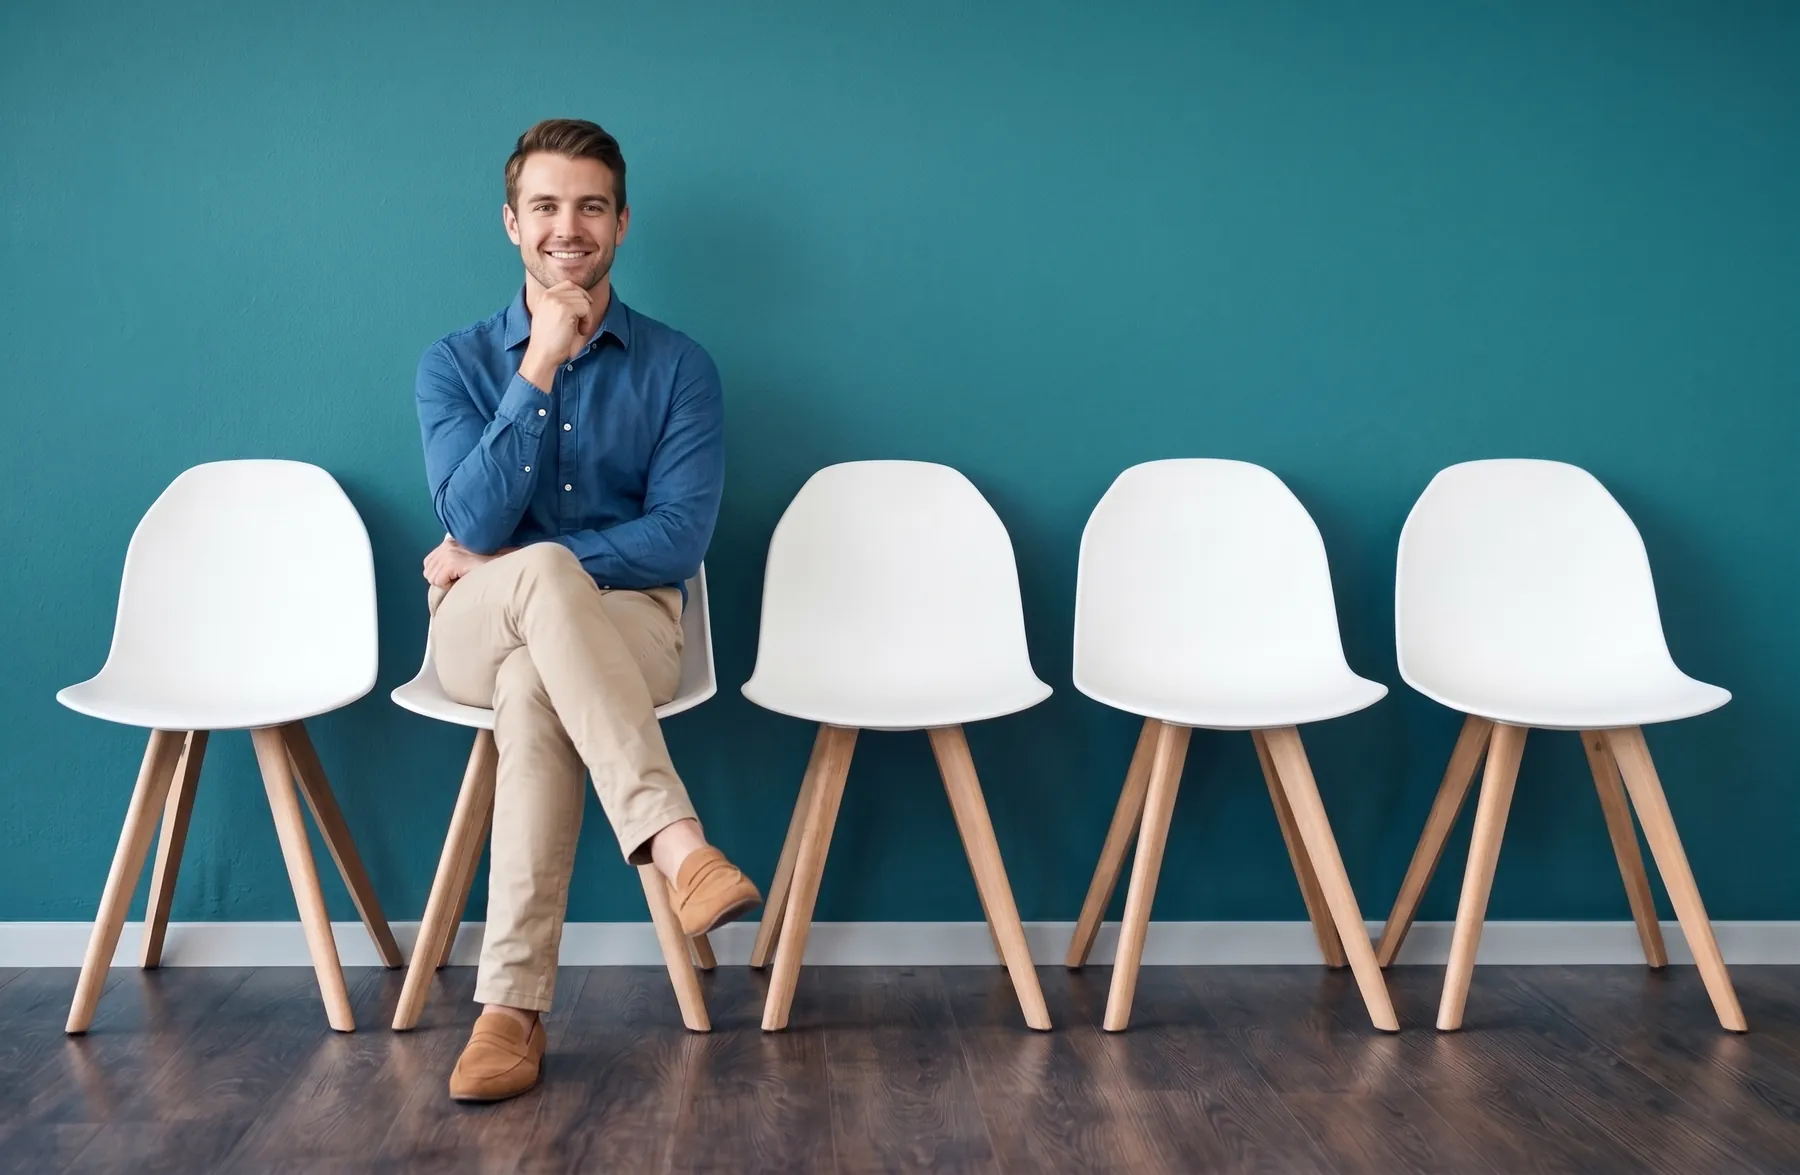
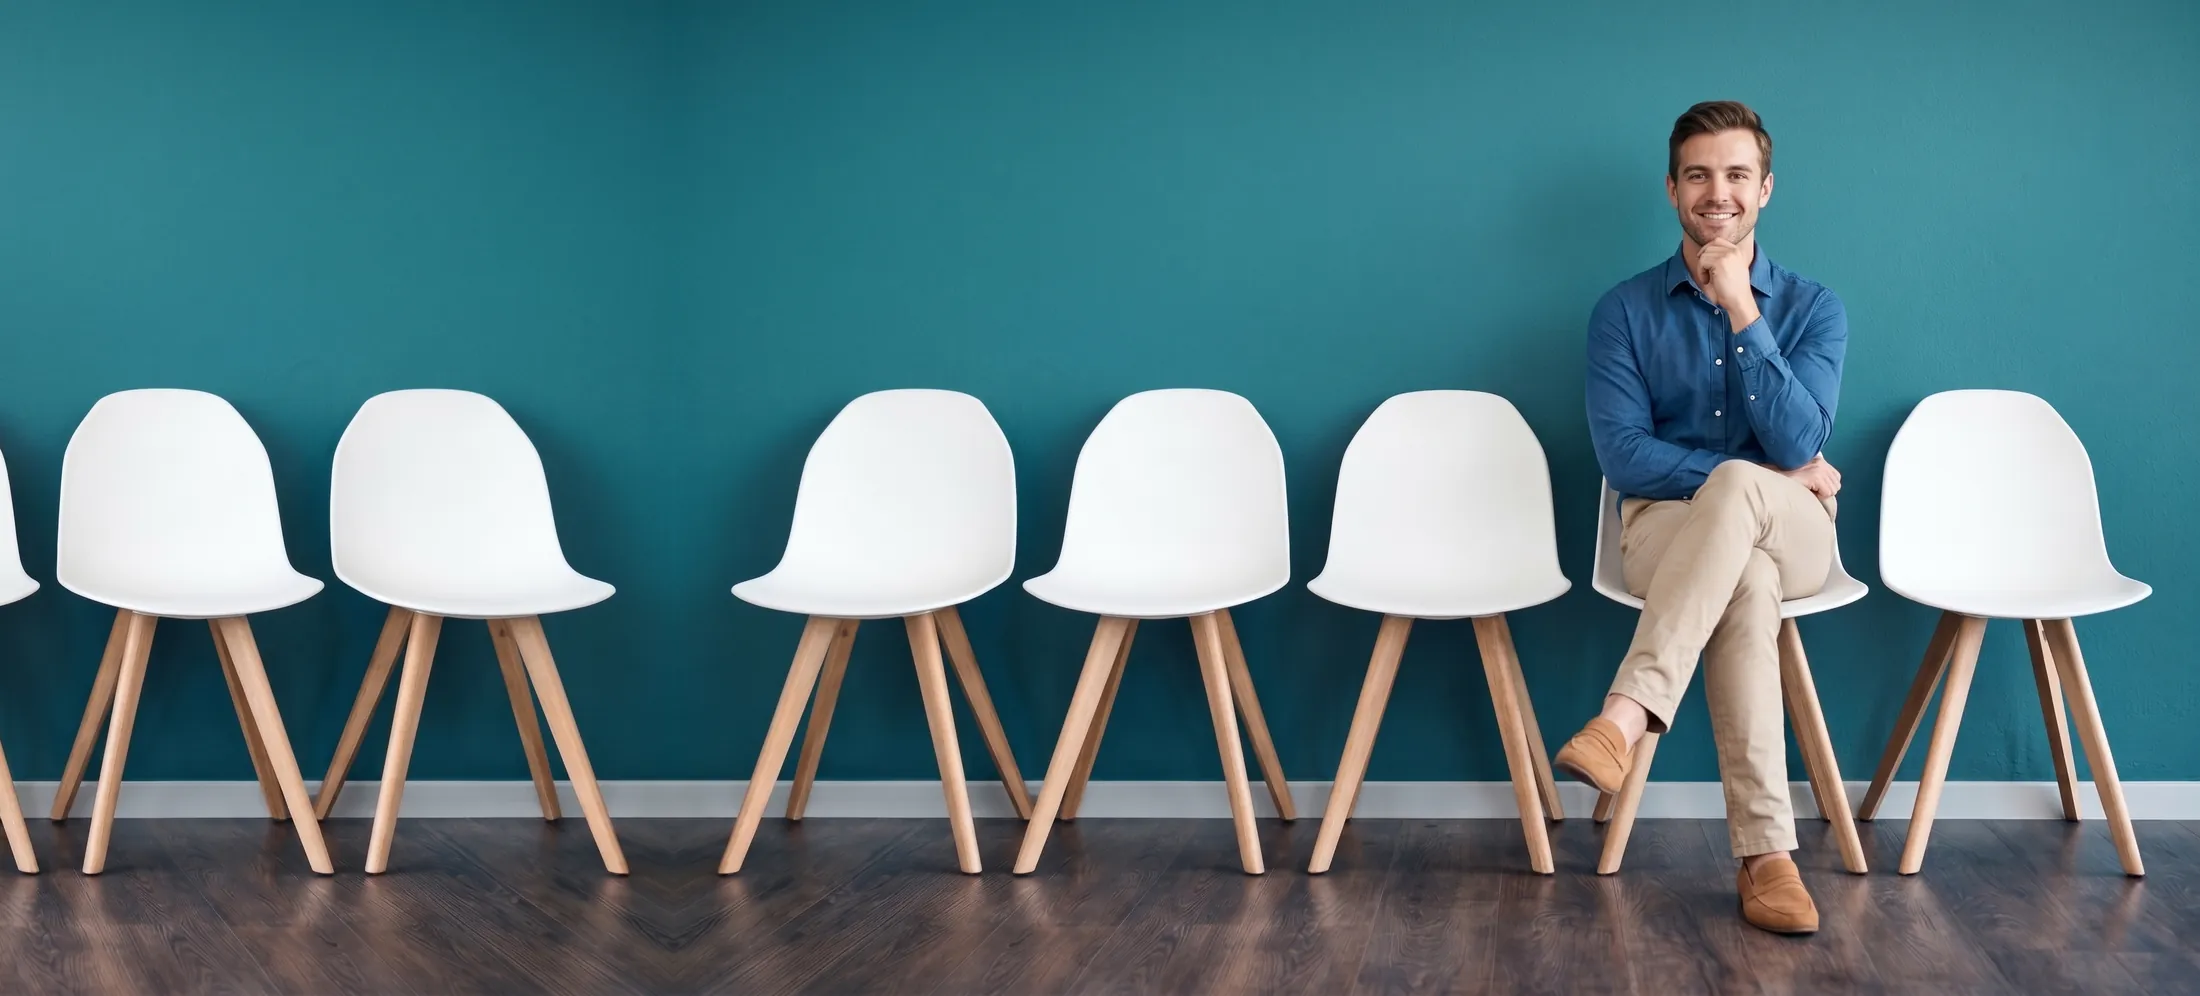
Hero riquadrati, Consulente al posto di Concierge, schede valore senza foto
- le due fotografie degli hero hanno la tela allargata con una copia
  specchiata del bordo: e' l'unico modo di spostare il soggetto senza
  tagliarlo, perche' con object-cover ogni spostamento costa altezza
- home: la ragazza passa dal 53% al 67% della larghezza, testo a
  sinistra. Contrasto del bianco ricontrollato, 5,25:1 nel caso peggiore
- come funziona: fotografia specchiata, uomo a destra e scatola del testo
  a sinistra, a meta' dello spazio libero a ogni larghezza
- «Concierge» diventa «Consulente» in italiano e «Advisor» in inglese
- la sezione «Un benefit che viene usato davvero» perde le fotografie:
  nelle strisce da 144px uscivano schiacciate. Restano tre schede con il
  numero grande

diff --git a/src/pages/NavigatoreSanitario.tsx b/src/pages/NavigatoreSanitario.tsx
@@ -7,39 +7,9 @@ import SectionHeading from "@/components/home/SectionHeading";
 import ClientsSection from "@/components/home/ClientsSection";
 import PlatformDetailSection from "@/components/navigatore/PlatformDetailSection";
 import heroImage from "@/assets/hero-come-funziona.webp";
-import valueImage from "@/assets/valore-welfare.webp";
-import timeImage from "@/assets/tempo-liberato.webp";
-import doctorsImage from "@/assets/problem-screening.jpg";
-import { cn } from "@/lib/utils";
 import { useTranslation } from "@/i18n/useTranslation";
 
 const VALUE_KEYS = ["item1", "item2", "item3"];
-
-/**
- * Le tre voci: la seconda occupa la colonna alta, come nel riferimento.
- *
- * Le fotografie sono scelte sul senso della frase, non a caso: la ragazza con
- * il raccoglitore per il valore percepito dal team, la ragazza che si stira al
- * sole per il tempo che il dipendente si riprende, i medici per la cultura
- * della prevenzione. Le prime due sono le foto nuove del cliente, la terza e'
- * una che il progetto aveva gia'.
- *
- * ⚠ `problem-fondi-sanitari.jpg` (la pila di moduli) e' uscita di qui: stava
- * sulla scheda 02 e il cliente ci ha voluto la foto nuova.
- *
- * ⚠ `alt=""`: la frase della scheda dice gia' tutto, una descrizione della
- * foto aggiungerebbe rumore a chi legge con uno screen reader.
- */
-const VALUE_CARDS = [
-  // ⚠ `focus` e' il ritaglio, ed e' misurato scheda per scheda: le due
-  // fotografie nuove stanno in una striscia molto larga (640×144), dove un
-  // ritaglio centrato mostra solo la fascia centrale dell'originale.
-  // Sul ritratto in studio quella fascia e' il raccoglitore, non la faccia,
-  // che nell'originale sta fra l'8% e il 42% dell'altezza: da li' il 12%.
-  { key: "item1", image: valueImage, focus: "object-[50%_12%]" },
-  { key: "item3", image: doctorsImage, focus: "object-center" },
-  { key: "item2", image: timeImage, focus: "object-center" },
-];
 
 /**
  * «Come funziona», rifatta nel linguaggio della home: fotografia a tutto campo
@@ -55,8 +25,8 @@ const VALUE_CARDS = [
  * fotografia. La scatola risolve il contrasto (crema su petrolio, 6,25:1) e
  * lascia la foto visibile intorno.
  *
- * La scatola sta **a destra** da `md` in su: nella fotografia nuova il
- * soggetto e' a sinistra.
+ * La scatola sta **a sinistra** e la fotografia e' specchiata, cosi' il
+ * soggetto resta a destra.
  */
 const NavigatoreSanitario = () => {
   const { t } = useTranslation();
@@ -72,16 +42,17 @@ const NavigatoreSanitario = () => {
               src={heroImage}
               alt=""
               aria-hidden="true"
-              // ⚠ Il ritaglio e' misurato sulla fotografia nuova, che ha il
-              // soggetto fra il 22% e il 42% della larghezza e la testa fra il
-              // 10% e il 25% dell'altezza.
-              // `object-top`: da `md` la fascia visibile e' l'80% centrale e un
+              // ⚠ Il ritaglio e' misurato: nella fotografia allargata e
+              // **specchiata** l'uomo sta al 78% della larghezza e la sua testa
+              // fra il 6% e il 21% dell'altezza.
+              // `top`: la fascia visibile non prende tutta l'altezza e un
               // ritaglio centrato mangerebbe la testa. Ancorando in alto si
               // perde solo il pavimento.
-              // `object-[22%_top]` sotto `md`: li' la fascia visibile e' il 36%
-              // della larghezza e un ritaglio centrato mostrerebbe solo le
-              // sedie vuote.
-              className="h-full w-full object-cover object-[22%_top] md:object-top"
+              // `78%` sull'asse x a tutte le larghezze: cosi' l'uomo cade a
+              // meta' dello spazio libero fra la scatola del testo e il bordo
+              // destro. Con il ritaglio centrato, a 768 finirebbe fuori dallo
+              // schermo.
+              className="h-full w-full object-cover object-[78%_top]"
             />
             {/* Velo leggero: qui serve solo a portare la foto dentro la palette,
                 non a reggere il testo, che ha la sua scatola. */}
@@ -93,9 +64,10 @@ const NavigatoreSanitario = () => {
               soggetto, che nel ritaglio verticale sta fra 77 e 192 pixel.
               Con 208 di stacco la faccia resta sopra la scatola. */}
           <div className="container mx-auto px-4 pb-28 pt-52 sm:px-6 md:pt-40 lg:px-8 lg:pb-32 lg:pt-48">
-            {/* La scatola sta a destra: la fotografia ha il soggetto a
-                sinistra e coprirlo con il testo sarebbe stato uno spreco. */}
-            <Reveal threshold={0} duration={900} data-header-overlap className="max-w-xl md:ml-auto lg:max-w-[56%]">
+            {/* La scatola sta a sinistra e la fotografia e' specchiata, cosi'
+                l'uomo resta a destra: e' l'impaginazione del resto del sito,
+                testo a sinistra e immagine a destra. */}
+            <Reveal threshold={0} duration={900} data-header-overlap className="max-w-xl lg:max-w-[56%]">
               <div className="rounded-card bg-primary p-7 shadow-soft md:p-12">
                 <h1 className="font-display text-fluid-4xl font-normal tracking-tight text-accent">
                   {t("navigatore.hero.title")}
@@ -129,57 +101,27 @@ const NavigatoreSanitario = () => {
                 </p>
               </Reveal>
 
-              {/* Griglia asimmetrica: due schede in colonna a sinistra e una
-                  alta a destra. La terza cresce fino all'altezza delle altre
-                  due grazie a `lg:h-full` sulla cella. */}
-              <div className="mt-12 grid gap-5 md:mt-16 lg:grid-cols-2">
-                <div className="grid gap-5">
-                  {VALUE_CARDS.slice(0, 2).map(({ key, image, focus }, index) => (
-                    <Reveal key={key} delay={220 + index * 120}>
-                      <article className="flex h-full flex-col overflow-hidden rounded-card border border-accent/10 bg-accent/[0.07] p-6 md:p-8">
-                        <span className="text-xs font-bold uppercase tracking-[0.18em] text-accent/90">
-                          {String(VALUE_KEYS.indexOf(key) + 1).padStart(2, "0")}
-                        </span>
-                        <p className="mt-4 text-fluid-lg font-bold leading-snug text-accent">
-                          {t(`navigatore.value.${key}`)}
-                        </p>
-                        <div className="relative mt-6 h-32 overflow-hidden rounded-lg md:h-36">
-                          <img
-                            src={image}
-                            alt=""
-                            aria-hidden="true"
-                            loading="lazy"
-                            className={cn("h-full w-full object-cover", focus)}
-                          />
-                          {/* Velo leggero: lega la fotografia al fondo petrolio
-                              della scatola senza spegnerla. */}
-                          <span aria-hidden="true" className="absolute inset-0 bg-primary/15" />
-                        </div>
-                      </article>
-                    </Reveal>
-                  ))}
-                </div>
-
-                <Reveal delay={460} className="lg:h-full">
-                  <article className="flex h-full flex-col overflow-hidden rounded-card border border-accent/10 bg-accent/[0.07] p-6 md:p-8">
-                    <span className="text-xs font-bold uppercase tracking-[0.18em] text-accent/90">
-                      {String(VALUE_KEYS.indexOf(VALUE_CARDS[2].key) + 1).padStart(2, "0")}
-                    </span>
-                    <p className="mt-4 text-fluid-xl font-bold leading-snug text-accent">
-                      {t(`navigatore.value.${VALUE_CARDS[2].key}`)}
-                    </p>
-                    <div className="relative mt-6 min-h-[240px] flex-1 overflow-hidden rounded-lg">
-                      <img
-                        src={VALUE_CARDS[2].image}
-                        alt=""
-                        aria-hidden="true"
-                        loading="lazy"
-                        className={cn("h-full w-full object-cover", VALUE_CARDS[2].focus)}
-                      />
-                      <span aria-hidden="true" className="absolute inset-0 bg-primary/15" />
-                    </div>
-                  </article>
-                </Reveal>
+              {/* Tre affermazioni, **senza fotografie**.
+                  ⚠ Prima c'erano: due schede con una striscia alta 144px e
+                  una scheda alta con la foto in verticale. Tolte su richiesta,
+                  perche' in una striscia cosi' bassa ogni fotografia usciva
+                  schiacciata e non aggiungeva niente. Non rimetterle.
+                  Il numero grande in `font-display` regge la scheda al posto
+                  dell'immagine, con il filetto corto a fare da stacco. */}
+              <div className="mt-12 grid gap-5 md:mt-16 md:grid-cols-3">
+                {VALUE_KEYS.map((key, index) => (
+                  <Reveal key={key} delay={220 + index * 120}>
+                    <article className="flex h-full flex-col rounded-card border border-accent/10 bg-accent/[0.07] p-7 md:p-9">
+                      <span className="font-display text-fluid-3xl leading-none text-accent/35">
+                        {String(index + 1).padStart(2, "0")}
+                      </span>
+                      <span aria-hidden="true" className="mt-6 block h-px w-12 bg-accent/30" />
+                      <p className="mt-6 text-fluid-lg font-bold leading-snug text-accent">
+                        {t(`navigatore.value.${key}`)}
+                      </p>
+                    </article>
+                  </Reveal>
+                ))}
               </div>
             </div>
           </div>

diff --git a/DESIGN-SYSTEM.md b/DESIGN-SYSTEM.md
@@ -1211,7 +1211,7 @@ npx tsc -p tsconfig.node.json --noEmit   # la config di Vite
 | Prezzo su `PricingSection` | `pricing.annual.price` | Era 30 € riferito alle sole giornate di prevenzione, l'ho portato a ~250 € su tua indicazione «ovunque». Potrebbero essere due offerte diverse. Il componente non è montato su nessuna pagina, quindi il cambio è per ora inerte |
 | Copy hero di `/coperture` | `coperture.hero.subtitle` | Scritta da me, mai validata |
 | Titolo sezione `/coperture` | `coperture.section1.title` | Era «Analizziamo le coperture che hai già.», promossa a `h1` della pagina; la sezione ha preso «Cosa guardiamo nell'assessment» |
-| Concierge vs Consulente | `home.faq.q4` e `home.platform.card2` | Convivono le due parole. Scelta tua confermata due volte, non uniformare senza chiedere |
+| ~~Concierge vs Consulente~~ | risolto il 17 settembre 2026 | Il cliente ha chiesto **«Consulente» ovunque**: in `it.json` non c'e' piu' nessun «Concierge». In `en.json` e' diventato **«Advisor»**, perche' «Consulente» in inglese non si puo' lasciare. ⚠ Se l'inglese deve tenere «Concierge», si cambia solo `en.json` |
 
 ### Debito tecnico ancora aperto
 
@@ -1276,3 +1276,25 @@ Le due schede basse hanno una striscia molto larga (596×144 da desktop, cioe' 4
 ⚠ La pila di moduli (`problem-fondi-sanitari.jpg`) e' uscita dalla pagina: stava sulla 02 e il cliente ci ha voluto la foto nuova. Il file resta in `src/assets/` ma non lo usa piu' nessuno.
 
 ⚠ `public/Assets sito/` sta dentro `public/`, quindi **gli originali finiscono anche nella build** (8,6 MB che nessuno scarica ma che vengono pubblicati). Se dà fastidio, la cartella va spostata fuori da `public/`, per esempio in `assets-sorgente/` alla radice: il sito non la importa, quindi non si rompe niente.
+
+## 19. Inquadrature degli hero e schede valore senza foto — 17 settembre 2026
+
+### Le due fotografie hanno la tela allargata a specchio
+
+Il problema: con `object-cover` in un riquadro largo, la fotografia sta dentro per larghezza e la posizione orizzontale del soggetto **non si puo' spostare**, ne' con `object-position` ne' allargando l'immagine, perche' ogni spostamento costa altezza e taglia il soggetto. Misurato sulla home: per portare la ragazza dal 53% al 68% servivano 27 punti di larghezza in meno, che le tagliavano pugni e piedi.
+
+Soluzione: **estendere la tela con una copia specchiata** del bordo, prima di ridimensionare. Alla giunzione le due colonne coincidono, quindi la cucitura e' continua per costruzione e resta invisibile.
+
+- **Home** (`hero-home.webp`, 1800×1619, 214 KB): 1650px di muro specchiato aggiunti **a sinistra**, la ragazza passa dal 53% al 67% della larghezza. ⚠ 1650 e non di piu': lei comincia a 1730px e uno specchio piu' largo ne copiava un pezzo, che ricompariva come fantasma sul bordo sinistro
+- **Come funziona** (`hero-come-funziona.webp`, 2200×996, 84 KB): 1124px di sedie specchiate aggiunti a un lato e poi **tutta la fotografia specchiata**, cosi' l'uomo finisce al 78% della larghezza, cioe' a destra, e la scatola del testo torna a sinistra come nel resto del sito. Le sedie sono tutte uguali, quindi la fila allungata si legge come una fila normale
+- Contrasto del testo bianco sulla home ricontrollato dopo il cambio: **5,7:1 mediano, 5,25:1 minimo** fra desktop e mobile
+
+L'uomo di «Come funziona» cade a meta' dello spazio libero fra la scatola del testo e il bordo destro, con un solo `object-[78%_top]` valido a tutte le larghezze: misurato 1195 contro 1196 a 1536, 1120 contro 1121 a 1440, 995 contro 996 a 1280, 795 contro 797 a 1024. ⚠ A 768 lo spazio libero e' 168px e non ci sta: li' resta appoggiato al bordo della scatola, ed e' comunque meglio del ritaglio centrato, che a quella larghezza lo porterebbe **fuori dallo schermo**.
+
+### Schede valore di «Come funziona»: niente fotografie
+
+Le tre voci sono ora tre schede uguali, `md:grid-cols-3`, con il numero grande in `font-display` al posto dell'immagine e un filetto corto da 48px a fare da stacco.
+
+⚠ La griglia asimmetrica con le foto (due strisce alte 144px piu' una scheda alta) e' stata **tolta su richiesta**: in una striscia cosi' bassa ogni fotografia usciva schiacciata. Non rimetterla.
+
+`valore-welfare.webp` e `tempo-liberato.webp` restano in `src/assets/` ma non li usa piu' nessuno: erano nate per quelle schede. Non pesano sul build, che impacchetta solo i file importati.
